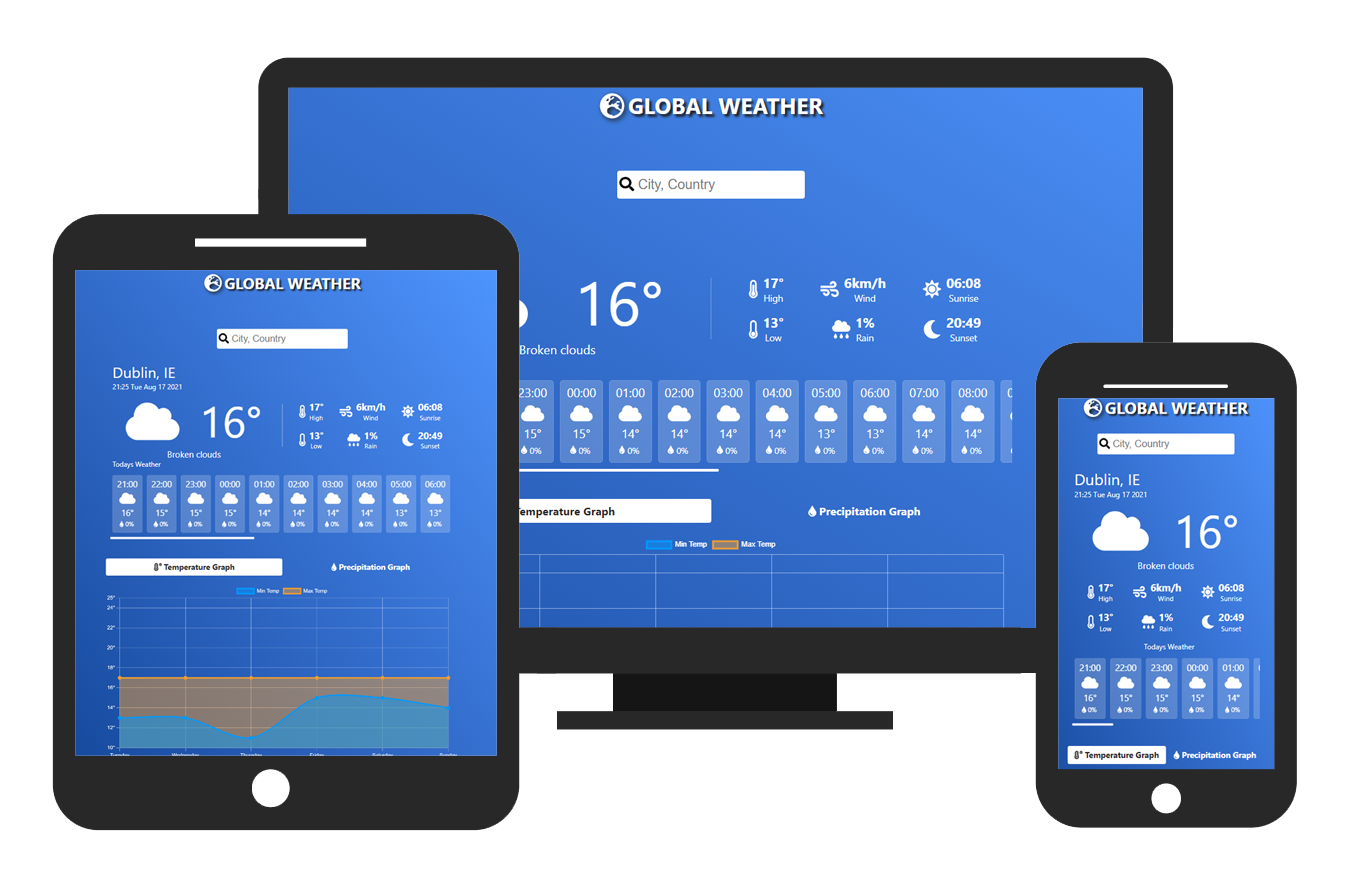
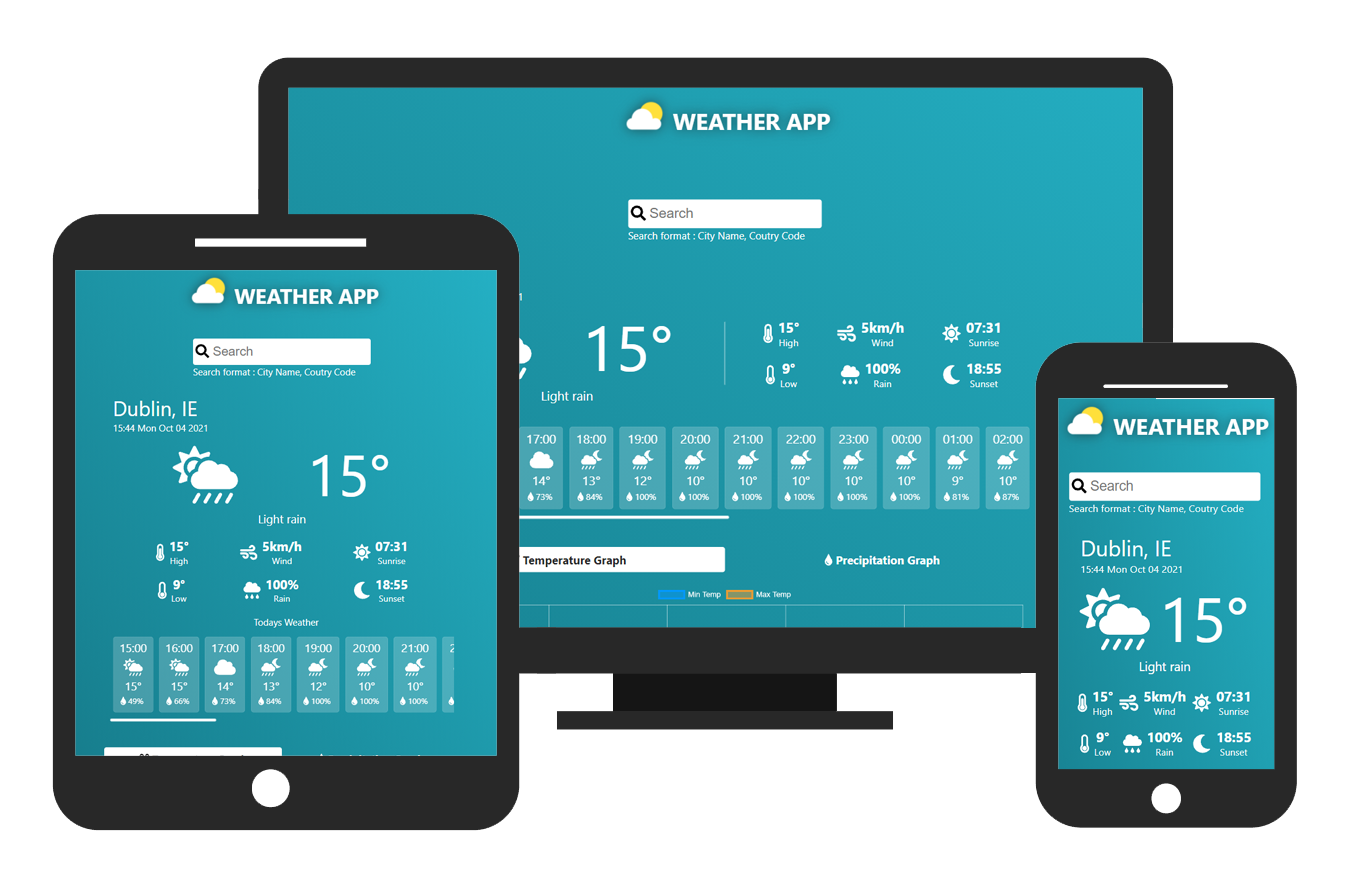
Updated weather app project image

diff --git a/src/components/Project.tsx b/src/components/Project.tsx
@@ -3,6 +3,7 @@ import azure_svg from '../svg/azure.svg';
 import typescript_svg from '../svg/typescript-icon.svg';
 import weatherImg from '../img/Responsive_Weather.png';
 import todoImg from '../img/Responsive_todo.png';
+import portfolioImg from '../img/Responsive_portfolio.png';
 import sortingImg from '../img/sortingImg.png';
 import ProjectButtons from './ProjectButtons';
 
@@ -23,12 +24,7 @@ function Project() {
               I created this site using{' '}
               <span className="highlight-text">React.js</span>,{' '}
               <span className="highlight-text">Typescript</span> and{' '}
-              <span className="highlight-text">Sass</span>. This site is hosted
-              using{' '}
-              <span className="highlight-text">
-                Microsoft Azure App Services
-              </span>
-              .
+              <span className="highlight-text">Sass</span>.
             </div>
           </div>
 
@@ -55,15 +51,6 @@ function Project() {
             <div title="SASS" className="sass-color">
               <i className="fab fa-sass"></i>
             </div>
-            <div title="Azure">
-              <img
-                className="azure"
-                alt="Azure"
-                draggable="false"
-                width="100px"
-                src={azure_svg}
-              ></img>
-            </div>
           </div>
 
           <ProjectButtons
@@ -73,7 +60,7 @@ function Project() {
         </div>
 
         <div className="project-image">
-          <i className="fas fa-tools"></i>
+          <img alt="weather" draggable="false" src={portfolioImg}></img>
         </div>
       </div>
 
@@ -93,13 +80,7 @@ function Project() {
               <span className="highlight-text"> SASS </span> and the graphing
               data was displayed using{' '}
               <span className="highlight-text">Chart.js</span> and the public{' '}
-              <span className="highlight-text">API</span> Open Weather.
-            </div>
-
-            <div className="project-paragraph">
-              The back end <span className="highlight-text">REST API</span> was
-              created with <span className="highlight-text">Node.js</span> and{' '}
-              <span className="highlight-text">EXPRESS.js</span>
+              <span className="highlight-text"> REST API</span> OpenWeatherMap.
             </div>
           </div>
 

diff --git a/src/components/About.tsx b/src/components/About.tsx
@@ -1,13 +1,13 @@
-import chartjs_Svg from "../svg/chartjs-icon.svg";
-import express_svg from "../svg/express-icon.svg";
-import typescript_svg from "../svg/typescript-icon.svg";
-import node_svg from "../svg/nodejs-icon.svg";
-import java_svg from "../svg/java-icon.svg";
-import git_svg from "../svg/git-icon.svg";
-import gitHub_svg from "../svg/github-icon.svg";
-import photoshop_svg from "../svg/photoshop-icon.svg";
-import figma_svg from "../svg/figma-icon.svg";
-import cSharp_svg from "../svg/cSharp-icon.svg";
+import chartjs_Svg from '../svg/chartjs-icon.svg';
+import express_svg from '../svg/express-icon.svg';
+import typescript_svg from '../svg/typescript-icon.svg';
+import node_svg from '../svg/nodejs-icon.svg';
+import java_svg from '../svg/java-icon.svg';
+import git_svg from '../svg/git-icon.svg';
+import gitHub_svg from '../svg/github-icon.svg';
+import photoshop_svg from '../svg/photoshop-icon.svg';
+import figma_svg from '../svg/figma-icon.svg';
+import cSharp_svg from '../svg/cSharp-icon.svg';
 
 function About() {
   return (
@@ -41,7 +41,7 @@ function About() {
           <div className="content-title">Front-end</div>
           <div className="skills-wrapper">
             <div className="skills-text">
-              HTML, CSS, SASS, Javascript, Typescript, React.js, Chart.js
+              HTML, CSS, SASS, Javascript, Typescript, React.js.
             </div>
             <div className="skills-icons">
               <div title="HTML" className="html-color">
@@ -67,14 +67,6 @@ function About() {
               </div>
               <div title="React.js" className="react-color">
                 <i className="fab fa-react"></i>
-              </div>
-              <div title="Chart.js">
-                <img
-                  alt="chart.js"
-                  draggable="false"
-                  width="50px"
-                  src={chartjs_Svg}
-                ></img>
               </div>
             </div>
           </div>

diff --git a/src/styles/projectStyle.scss b/src/styles/projectStyle.scss
@@ -1,5 +1,5 @@
 //MIXINS
-@use "sass:math";
+@use 'sass:math';
 
 @mixin buttonMix($bg-color, $font-color, $lighten) {
   background: $bg-color;
@@ -16,7 +16,7 @@
   &:hover {
     transform: scale(1.03);
 
-    @if ($lighten == "true") {
+    @if ($lighten == 'true') {
       background: lighten($bg-color, 5%);
     } @else {
       background: darken($bg-color, 5%);
@@ -120,7 +120,7 @@ $dark_font: #272727;
         padding: 10px 35px;
 
         .project-paragraph {
-          margin: 5px 0;
+          margin: 10px 0;
 
           .highlight-text {
             font-weight: bold;
@@ -164,10 +164,10 @@ $dark_font: #272727;
           }
 
           .live {
-            @include buttonMix(white, $dark_font, "false");
+            @include buttonMix(white, $dark_font, 'false');
           }
           .code {
-            @include buttonMix($dark_font, white, "true");
+            @include buttonMix($dark_font, white, 'true');
           }
         }
       }

diff --git a/src/styles/index.scss b/src/styles/index.scss
@@ -14,15 +14,15 @@ html {
 
 body {
   margin: 0;
-  font-family: -apple-system, BlinkMacSystemFont, "Segoe UI", "Roboto", "Oxygen",
-    "Ubuntu", "Cantarell", "Fira Sans", "Droid Sans", "Helvetica Neue",
+  font-family: -apple-system, BlinkMacSystemFont, 'Segoe UI', 'Roboto', 'Oxygen',
+    'Ubuntu', 'Cantarell', 'Fira Sans', 'Droid Sans', 'Helvetica Neue',
     sans-serif;
   -webkit-font-smoothing: antialiased;
   -moz-osx-font-smoothing: grayscale;
 }
 
 code {
-  font-family: source-code-pro, Menlo, Monaco, Consolas, "Courier New",
+  font-family: source-code-pro, Menlo, Monaco, Consolas, 'Courier New',
     monospace;
 }
 
@@ -72,7 +72,7 @@ code {
     align-items: center;
 
     .hero-title {
-      font-family: "Permanent Marker", cursive;
+      font-family: 'Permanent Marker', cursive;
       font-size: 6em;
       animation: titleAnimation 1.5s ease-out 0s 1 alternate;
     }
